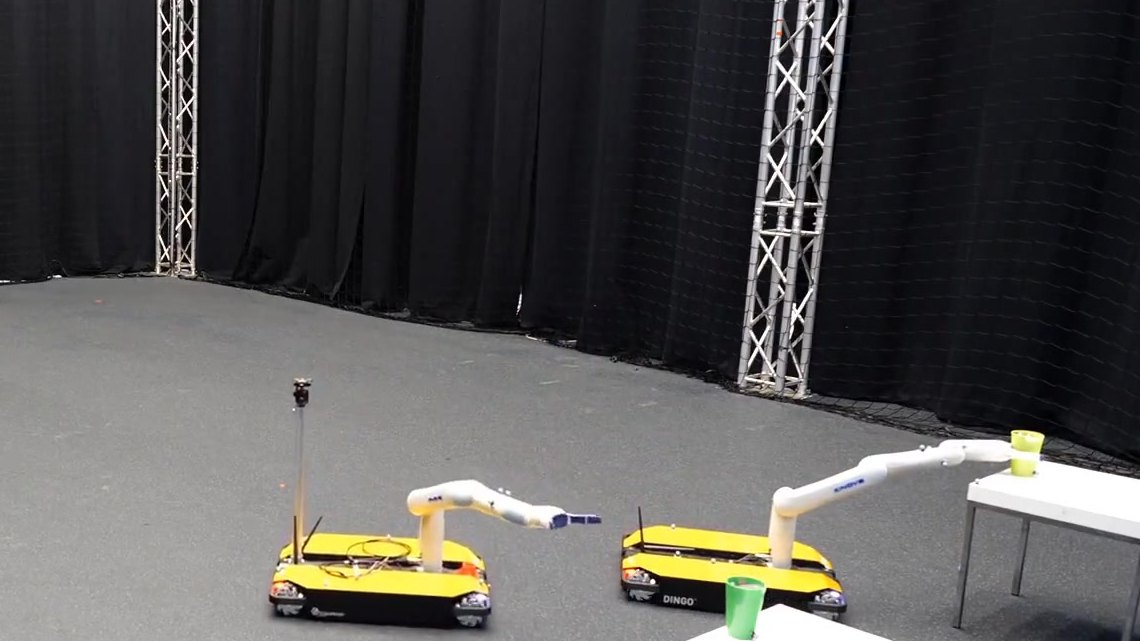
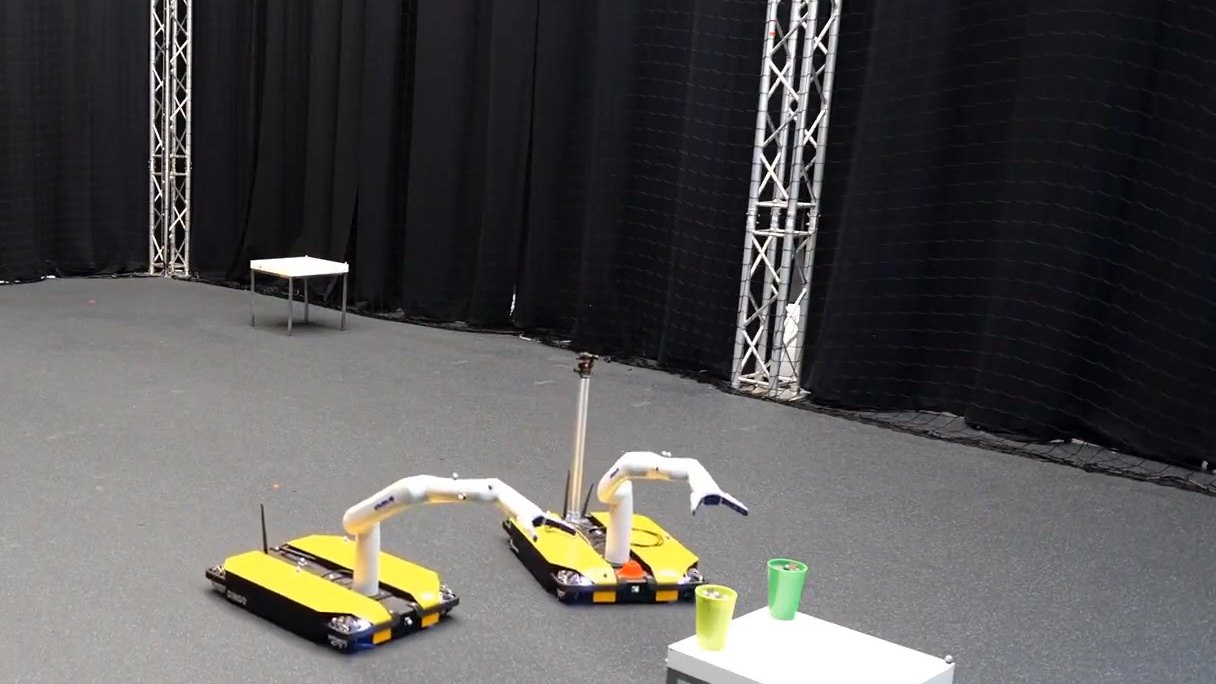
Robots: better mobile-manipulator photo in the lab carousel
A different frame (g3f one-table video, both arms raised) with a wider
crop that keeps the whole scene: only the inset map on the left, the
"2x" label at the top and the check mark at the bottom are left out.

Claude-Session: https://claude.ai/code/session_01S4RXcNBxJ4EsNTioieMLGi

Changed region(s): [[0.0, 0.0, 1.0, 1.0], [0.307, 0.0, 0.3684, 0.1248], [0.2456, 0.5928, 0.2763, 0.6552]]

diff --git a/content/pages/robots.html b/content/pages/robots.html
@@ -7,7 +7,7 @@ images_carousel:
 - image_path: /assets/images/robots/lab_arena_drones_payload.jpg
   alt: Three drones carrying a load together in the arena
 - image_path: /assets/images/robots/lab_arena_mobile_manipulators.jpg
-  alt: Two mobile manipulators working next to a table in the arena
+  alt: Two mobile manipulators reaching towards a table with cups in the arena
 - image_path: /assets/images/robots/lab_arena_drone_racing.jpg
   alt: Drones racing through gates in the arena, with their flight paths drawn in
 - image_path: /assets/images/robots/lab_arena_ramp.jpg
